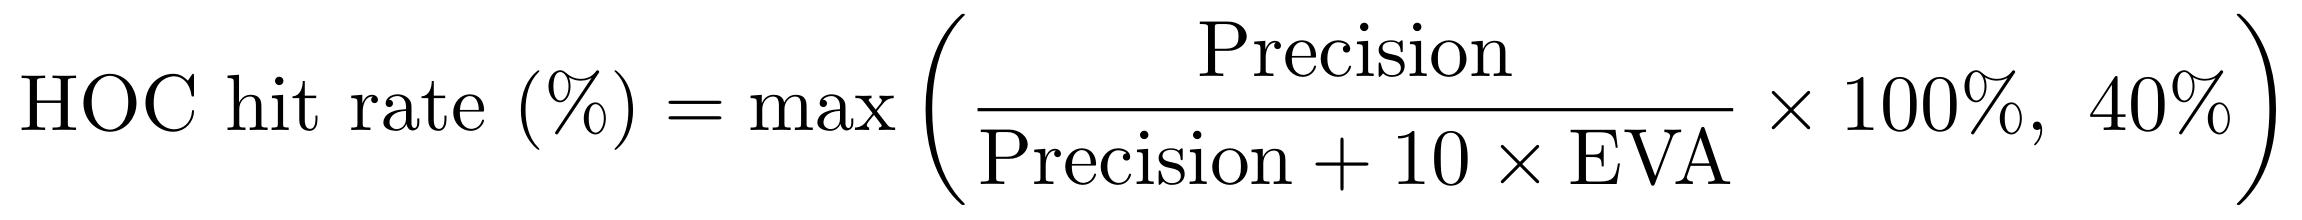
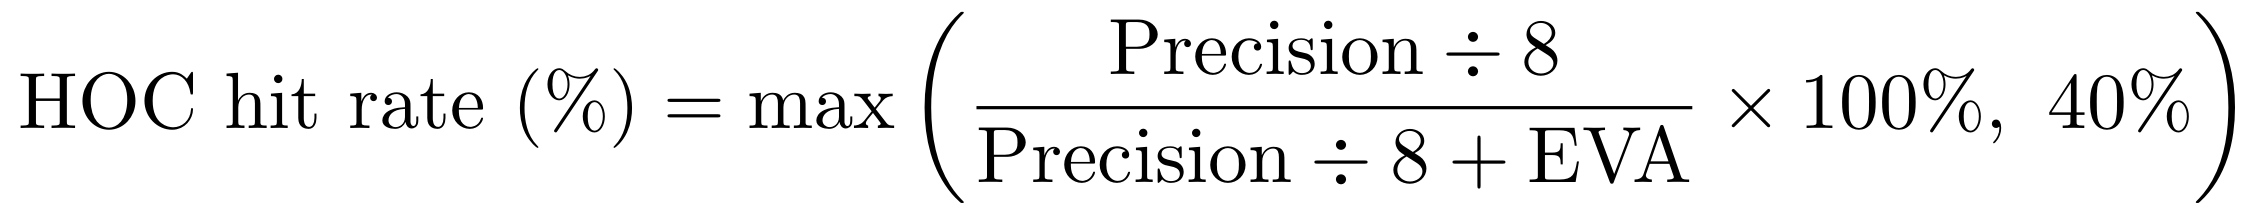
Corrected HOC formula

diff --git a/pages/evasion.html b/pages/evasion.html
@@ -493,9 +493,9 @@ Here's the same table with 143 enemy accuracy.</p>
 </p>
 
 <p>
-	So: low-precision HOCs (2B14, M2) may run up against the 40% floor against enemies with 40+ EVA or so.
-	More precise ones will stay above it until ~80+ EVA.
-	In most cases, you can expect your HOCs to hit 65-80% of the time.
+	So: low-precision HOCs (2B14, M2) may run up against the 40% floor against enemies with 50+ EVA or so.
+	More precise ones will stay above it until a bit past 80 EVA.
+	In most cases, you can expect your HOCs to hit 70-80% of the time.
 </p>
 
 <h2 id="conclusion">In conclusion<sup><small><a href="#conclusion">&#35;</a></small></sup></h2>
